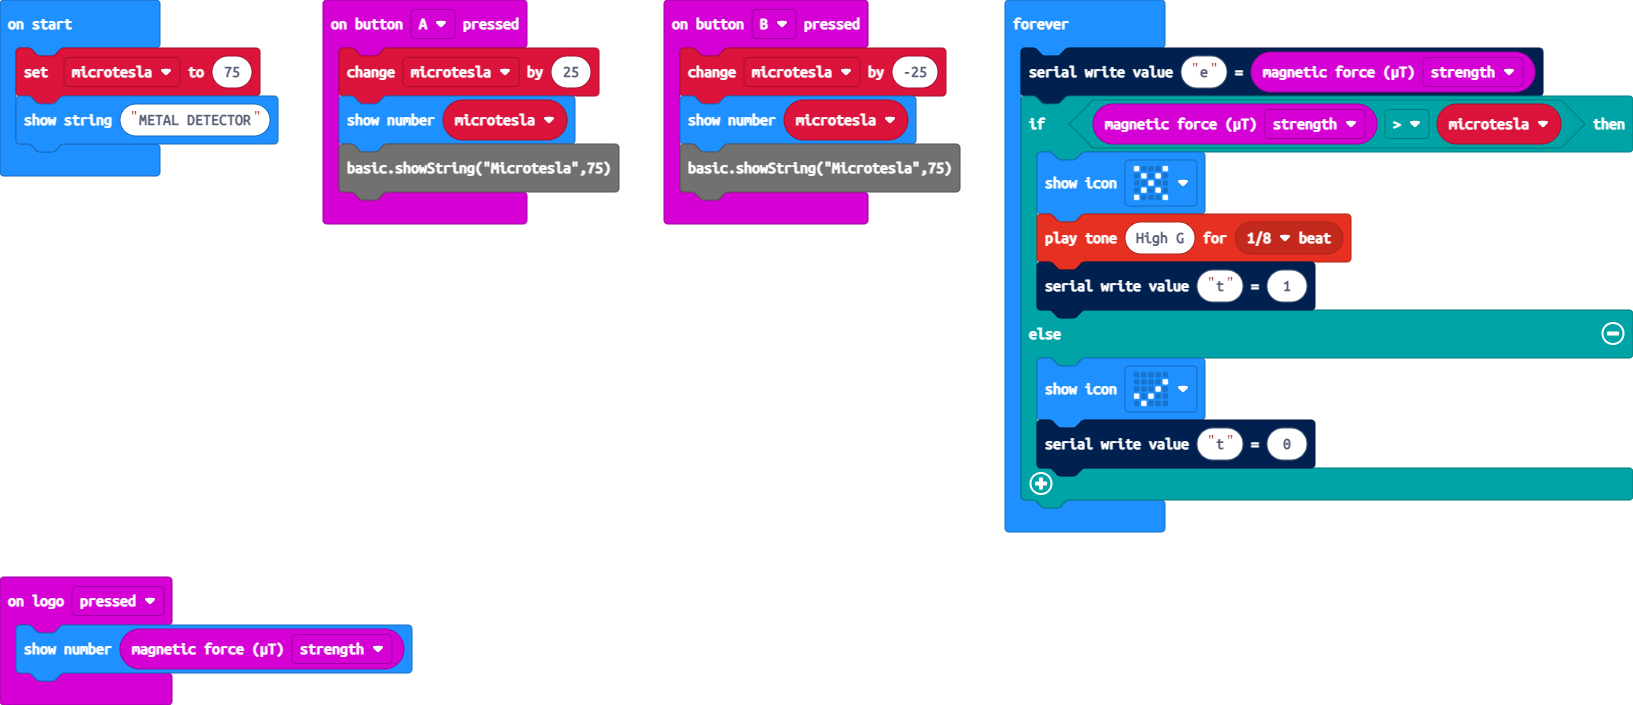
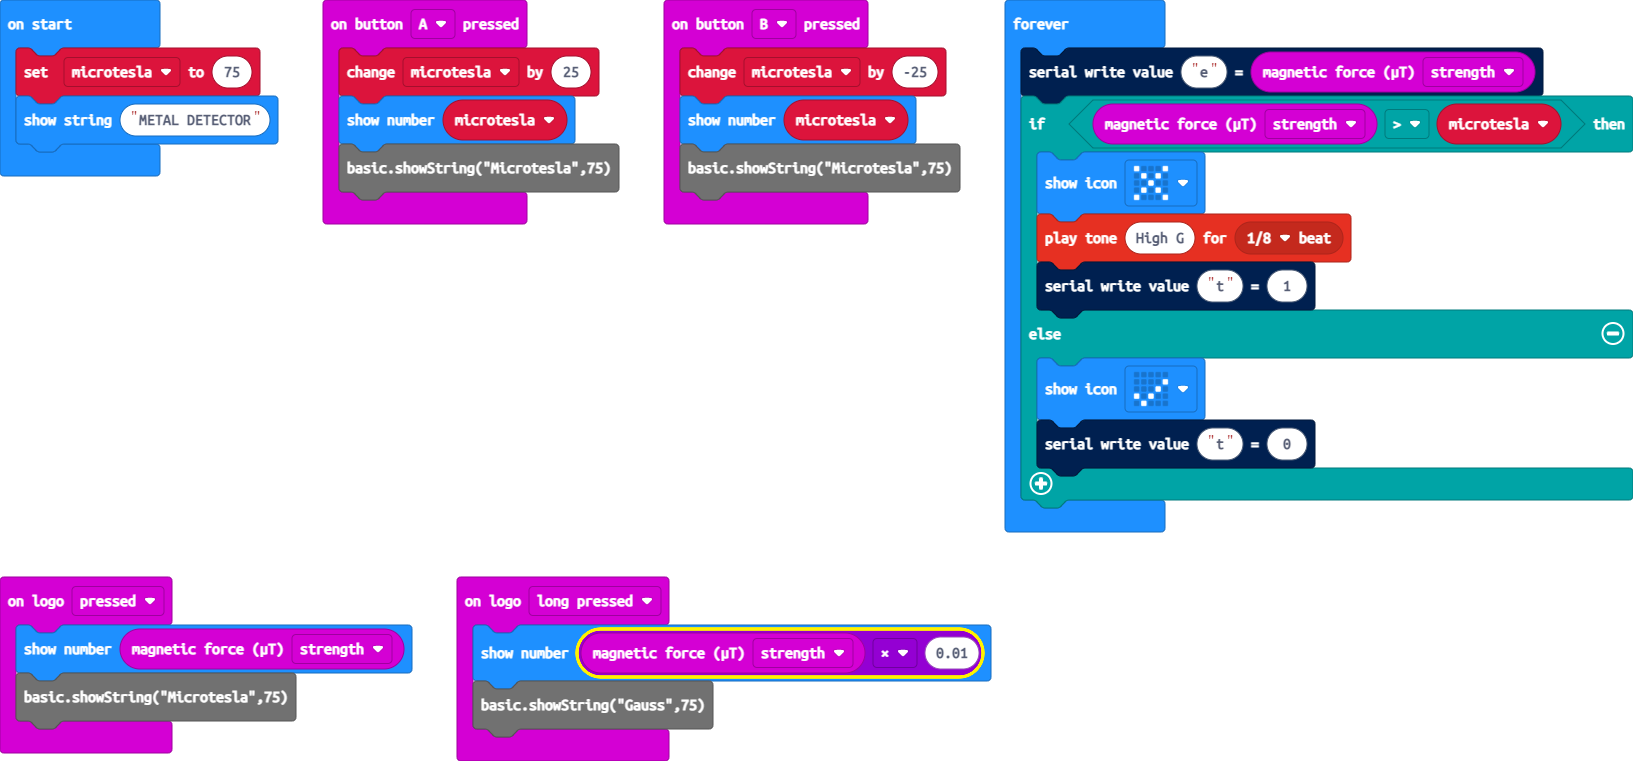
Update main.blocks, main.ts

Changed region(s): [[0.5934, 0.0, 1.0, 0.7801], [0.0, 0.0, 0.5934, 0.3433], [0.0, 0.7489, 0.6246, 1.0]]

diff --git a/main.ts b/main.ts
@@ -1,3 +1,7 @@
+input.onLogoEvent(TouchButtonEvent.LongPressed, function () {
+    basic.showNumber(input.magneticForce(Dimension.Strength) * 0.01)
+    basic.showString("Gauss",75)
+})
 input.onButtonPressed(Button.A, function () {
     microtesla += 25
     basic.showNumber(microtesla)
@@ -10,6 +14,7 @@ input.onButtonPressed(Button.B, function () {
 })
 input.onLogoEvent(TouchButtonEvent.Pressed, function () {
     basic.showNumber(input.magneticForce(Dimension.Strength))
+    basic.showString("Microtesla",75)
 })
 let microtesla = 0
 microtesla = 75
